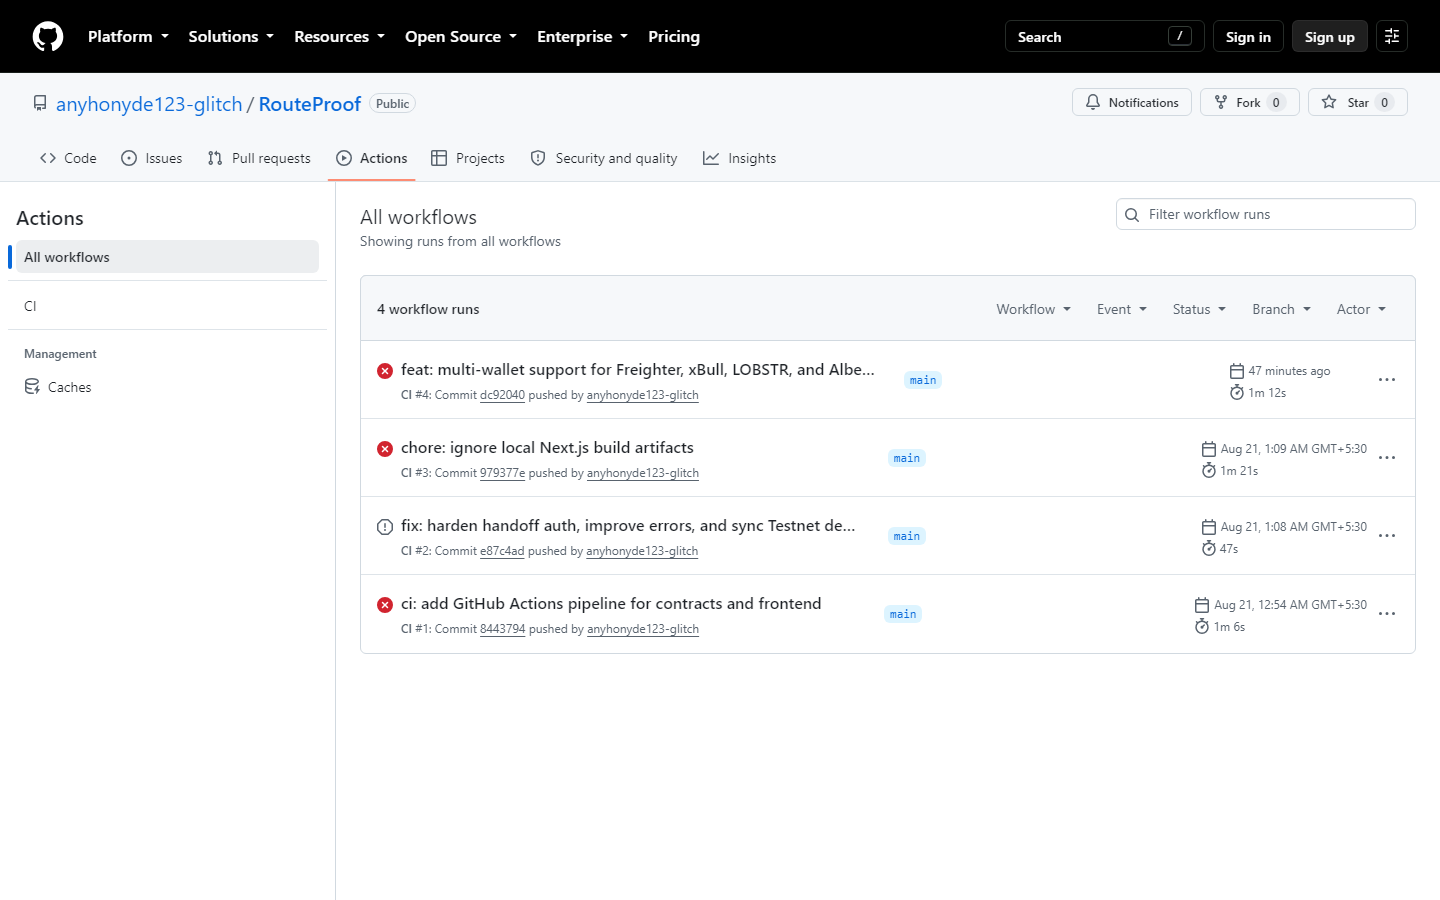
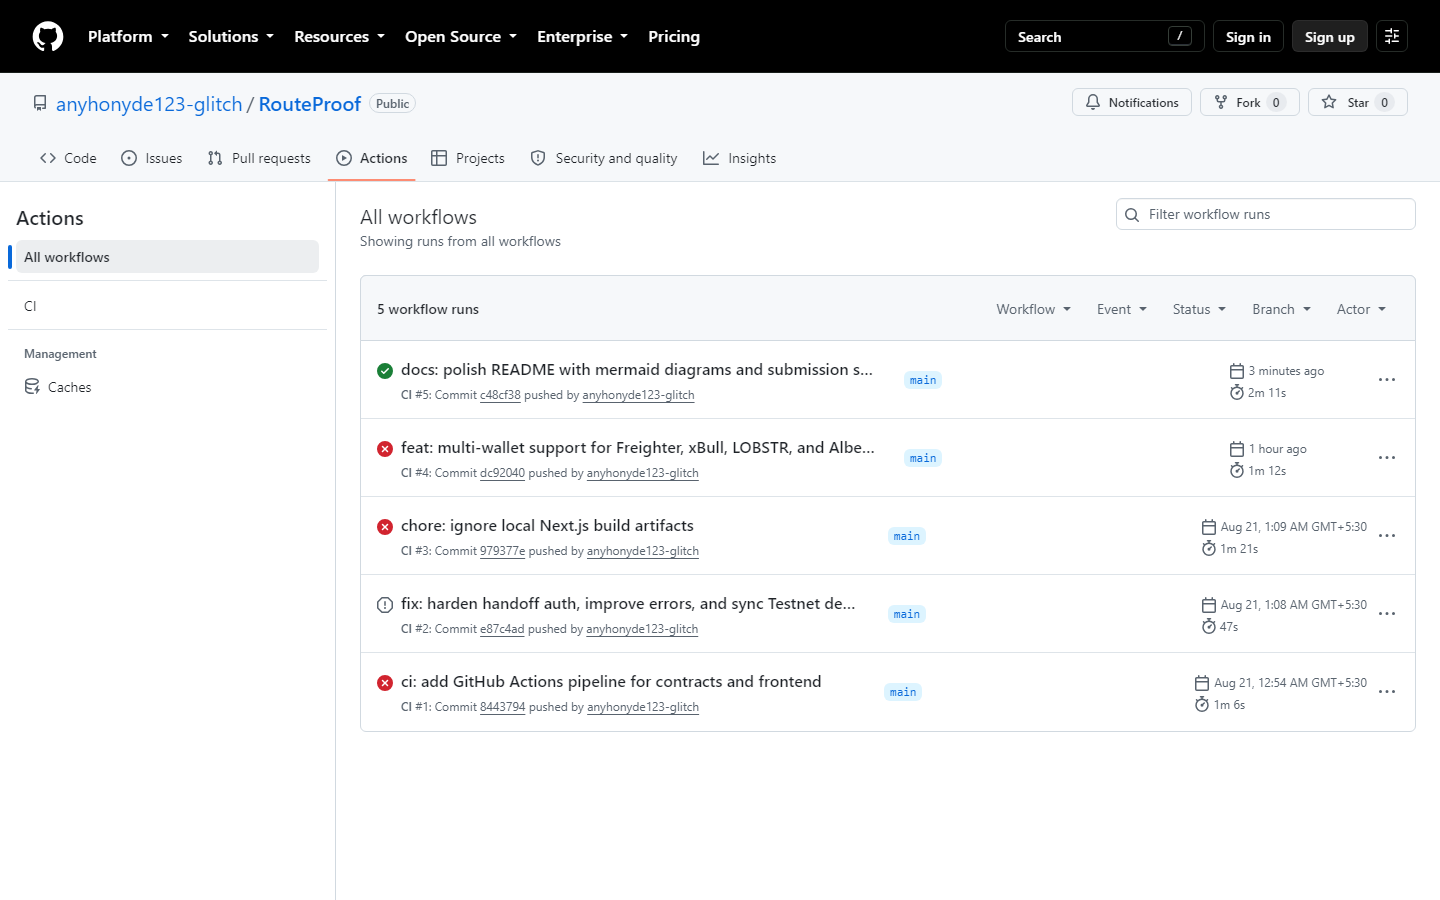
docs: refresh CI screenshot after green Actions run

diff --git a/README.md b/README.md
@@ -241,8 +241,6 @@ routeproof/
 | --- | --- |
 | ![CI](docs/screenshots/09-cicd-actions.png) | ![Tests](docs/screenshots/10-test-output.png) |
 
-> After the latest rustfmt fix lands on `main`, re-open Actions for the green run screenshot if judges expect a green badge in the image.
-
 ---
 
 ## Testnet deployment
